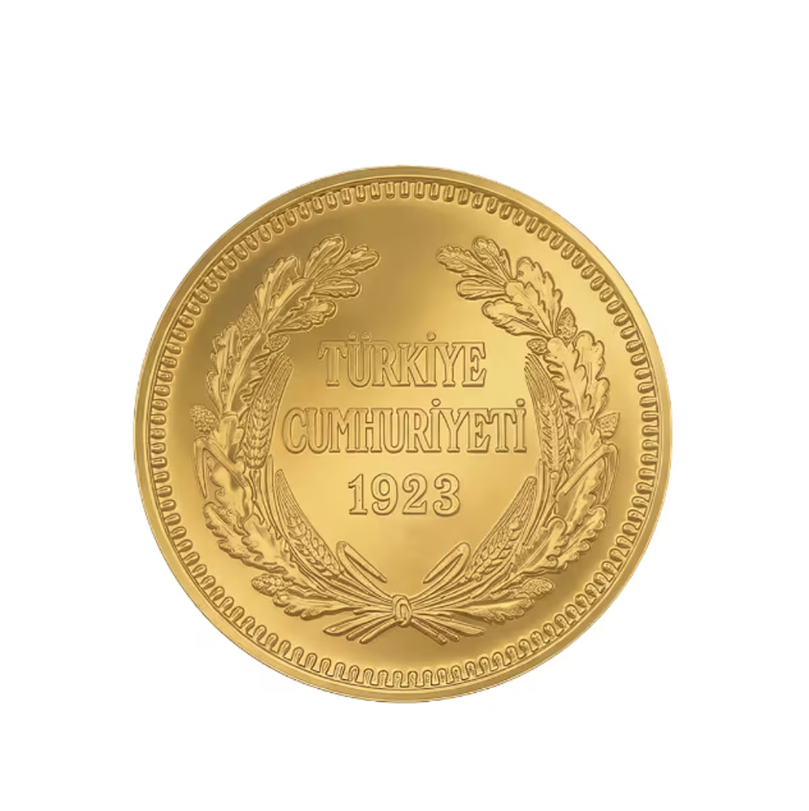
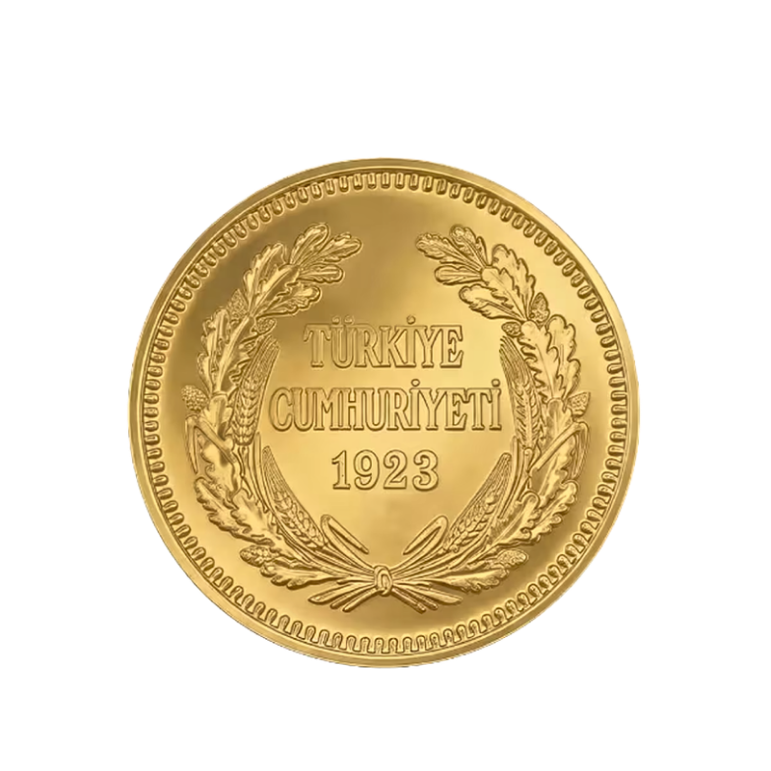
gorsel-png

diff --git a/js/harem_core.js b/js/harem_core.js
@@ -84,7 +84,6 @@
                 padding-bottom: 120px; overflow-y: auto; overflow-x: hidden;
                 color: var(--on-surface) !important;
                 font-family: 'Inter', sans-serif !important;
-                scrollbar-gutter: stable;
             }
             #fetih-root * { box-sizing: border-box !important; }
             .section-width { width: 100% !important; max-width: 1240px !important; margin: 0 auto !important; }
@@ -186,7 +185,16 @@
                 filter: brightness(1.1) contrast(1.1);
                 object-fit: contain;
             }
-            #fetih-root.light-mode.show-visuals .card-visual { display: block !important; }
+            #fetih-root.show-visuals .card-visual { display: block !important; }
+            #fetih-root.light-mode .card-visual { filter: brightness(1.1) contrast(1.1); opacity: 0.9; }
+            #fetih-root:not(.light-mode) .card-visual { filter: brightness(0.7) contrast(1.8) sepia(0.5) hue-rotate(-10deg); opacity: 0.85; }
+
+            /* Negative labels for better readability over visuals */
+            #fetih-root.show-visuals .mini-card .label-text {
+                color: #fff !important;
+                mix-blend-mode: difference !important;
+                opacity: 1 !important;
+            }
 
             /* Table Styles - UNIFIED FLEX SLABS */
             #fetih-root .fetih-table-box { background: transparent; border: none; }
@@ -260,7 +268,7 @@
             /* ── NAVBAR BOT ── */
             #fetih-bot-trigger {
                 display: flex; align-items: center;
-                height: 42px;
+                height: 34px;
                 border-radius: 999px;
                 background: #0a0a0a;
                 border: 1px solid rgba(var(--primary-rgb), 0.4);
@@ -273,7 +281,7 @@
             #fetih-bot-trigger:hover { border-color: rgba(var(--primary-rgb), 0.5); }
 
             .siri-orb {
-                width: 40px; height: 40px; flex-shrink: 0;
+                width: 32px; height: 32px; flex-shrink: 0;
                 border-radius: 50%;
                 background: #000;
                 display: flex; align-items: center; justify-content: center;
@@ -281,10 +289,10 @@
                 z-index: 10; /* Yazının üstünde kalması için */
             }
 
-            .siri-icon { color: var(--primary); font-size: 20px; position: relative; }
+            .siri-icon { color: var(--primary); font-size: 18px; position: relative; }
 
             .bot-msg-text {
-                font-size: 13px; font-weight: 700; color: #fff;
+                font-size: 12px; font-weight: 700; color: #fff;
                 white-space: nowrap; 
                 overflow: hidden;
                 max-width: 0; opacity: 0;
@@ -307,12 +315,13 @@
 
             .has-card-active {
                 background: linear-gradient(135deg, var(--primary) 0%, var(--primary-dark) 100%) !important;
-                border: 1px solid rgba(255,255,255,0.4) !important;
+                border: none !important;
                 opacity: 1 !important;
                 box-shadow: 0 15px 40px rgba(var(--primary-rgb), 0.3) !important;
             }
             #fetih-root.light-mode .has-card-active {
-                background: linear-gradient(135deg, var(--primary) 0%, #fff 250%) !important;
+                background: linear-gradient(135deg, var(--primary) 0%, #fff 150%) !important;
+                border: none !important;
                 box-shadow: 0 15px 40px rgba(var(--primary-rgb), 0.15) !important;
             }
             #fetih-root .has-card-active * { color: var(--primary-contrast) !important; }
@@ -329,24 +338,32 @@
                 border-radius: 50%; background: rgba(var(--primary-rgb),0.10); border: 1px solid rgba(var(--primary-rgb),0.30);
             }
 
-            /* Custom Scrollbar for Fetih UI */
+            /* Custom Scrollbar for Fetih UI - No Layout Space */
             #fetih-root::-webkit-scrollbar, #fetih-root *::-webkit-scrollbar {
-                width: 10px; height: 10px;
+                width: 0px; height: 0px;
+                background: transparent;
+            }
+            #fetih-root:hover::-webkit-scrollbar, #fetih-root *:hover::-webkit-scrollbar {
+                width: 8px; height: 8px;
             }
             #fetih-root::-webkit-scrollbar-track, #fetih-root *::-webkit-scrollbar-track {
-                background: rgba(0,0,0,0.2); border-radius: 10px;
+                background: transparent;
+            }
+            #fetih-root:hover::-webkit-scrollbar-track, #fetih-root *:hover::-webkit-scrollbar-track {
+                background: transparent;
             }
             #fetih-root::-webkit-scrollbar-thumb, #fetih-root *::-webkit-scrollbar-thumb {
-                background: rgba(255, 255, 255, 0.3);
+                background: transparent;
                 border-radius: 10px;
-                border: 3px solid transparent; 
+            }
+            #fetih-root:hover::-webkit-scrollbar-thumb, #fetih-root *:hover::-webkit-scrollbar-thumb {
+                background: rgba(255, 255, 255, 0.15);
+                border: 2px solid transparent;
                 background-clip: content-box;
-                transition: background 0.4s ease;
             }
             #fetih-root::-webkit-scrollbar-thumb:hover, #fetih-root *::-webkit-scrollbar-thumb:hover {
-                background: var(--primary);
-                background-clip: content-box; /* Boyutun değişmemesi için sabit tutuyoruz */
-                box-shadow: 0 0 8px rgba(var(--primary-rgb), 0.4);
+                background: var(--primary) !important;
+                background-clip: content-box !important;
             }
 
             /* ── LIGHT THEME OVERRIDES ── */
@@ -393,10 +410,14 @@
             #fetih-root.light-mode #am-insight { color: #555 !important; }
             #fetih-root.light-mode #analysis-modal-box div[style*="color:var(--outline)"] { color: #777 !important; }
 
-            /* Light Mode Scrollbars */
-            #fetih-root.light-mode::-webkit-scrollbar-track, #fetih-root.light-mode *::-webkit-scrollbar-track { background: rgba(0,0,0,0.05); }
-            #fetih-root.light-mode::-webkit-scrollbar-thumb, #fetih-root.light-mode *::-webkit-scrollbar-thumb { background: rgba(var(--primary-rgb),0.4); border: 3px solid transparent; background-clip: content-box; }
-            #fetih-root.light-mode::-webkit-scrollbar-thumb:hover, #fetih-root.light-mode *::-webkit-scrollbar-thumb:hover { background: rgba(var(--primary-rgb),0.8); background-clip: content-box; }
+            /* Light Mode Scrollbars - Hidden until Hover */
+            #fetih-root.light-mode::-webkit-scrollbar, #fetih-root.light-mode *::-webkit-scrollbar { width: 0px; height: 0px; }
+            #fetih-root.light-mode:hover::-webkit-scrollbar, #fetih-root.light-mode *:hover::-webkit-scrollbar { width: 8px; height: 8px; }
+            #fetih-root.light-mode::-webkit-scrollbar-track, #fetih-root.light-mode *::-webkit-scrollbar-track { background: transparent; }
+            #fetih-root.light-mode:hover::-webkit-scrollbar-track, #fetih-root.light-mode *:hover::-webkit-scrollbar-track { background: rgba(0,0,0,0.03); }
+            #fetih-root.light-mode::-webkit-scrollbar-thumb, #fetih-root.light-mode *::-webkit-scrollbar-thumb { background: transparent; }
+            #fetih-root.light-mode:hover::-webkit-scrollbar-thumb, #fetih-root.light-mode *:hover::-webkit-scrollbar-thumb { background: rgba(var(--primary-rgb),0.3); border: 2px solid transparent; background-clip: content-box; }
+            #fetih-root.light-mode::-webkit-scrollbar-thumb:hover, #fetih-root.light-mode *::-webkit-scrollbar-thumb:hover { background: var(--primary) !important; }
 
             /* ── CHART OVERRIDES ── */
             #fetih-chart-modal.active { display: flex !important; opacity: 1 !important; }
@@ -894,7 +915,7 @@
                     </div>
 
                     <div class="fetih-card card-3" style="padding:28px; position:relative; overflow:hidden;">
-                        <img class="card-visual" src="${chrome.runtime.getURL('image/gram-24.png')}" alt="Gold Bar" style="width: 260px; height: 260px; bottom: -60px; right: -120px; left:auto; transform: rotate(0deg); opacity: 0.8;">
+                        <img class="card-visual" src="${chrome.runtime.getURL('image/gram-24.png')}" alt="Gold Bar" style="width: 260px; height: 260px; bottom: -60px; right: -120px; left:auto; transform: rotate(0deg);">
                         <div style="position:relative; z-index:1;">
                             <div style="display:flex; justify-content:space-between; align-items:center; margin-bottom:30px">
                                 <h3 class="font-headline" style="font-size:16px; font-weight:900; color:var(--primary); text-transform:uppercase; letter-spacing:1px; margin:0">Gram Altın</h3>
@@ -2618,9 +2639,9 @@
                 else if (item.key === 'ESKİGREMSE') coinSize = 230;
 
                 const coinOffset = - (coinSize * 70 / 230);
-                coinImg = `<img class="card-visual" style="width:${coinSize}px; height:${coinSize}px; bottom:${coinOffset}px; left:${coinOffset}px; opacity:0.7;" src="${chrome.runtime.getURL('image/ceyrek.jpg')}" alt="Gold Coin">`;
+                coinImg = `<img class="card-visual" style="width:${coinSize}px; height:${coinSize}px; bottom:${coinOffset}px; left:${coinOffset}px;" src="${chrome.runtime.getURL('image/ceyrek.png')}" alt="Gold Coin">`;
             } else if (isAtaCoin) {
-                coinImg = `<img class="card-visual" style="width:230px; height:230px; bottom:-70px; left:-70px; opacity:0.7;" src="${chrome.runtime.getURL('image/ata.PNG')}" alt="Ata Gold">`;
+                coinImg = `<img class="card-visual" style="width:230px; height:230px; bottom:-70px; left:-70px;" src="${chrome.runtime.getURL('image/ata.png')}" alt="Ata Gold">`;
             }
 
             return `
